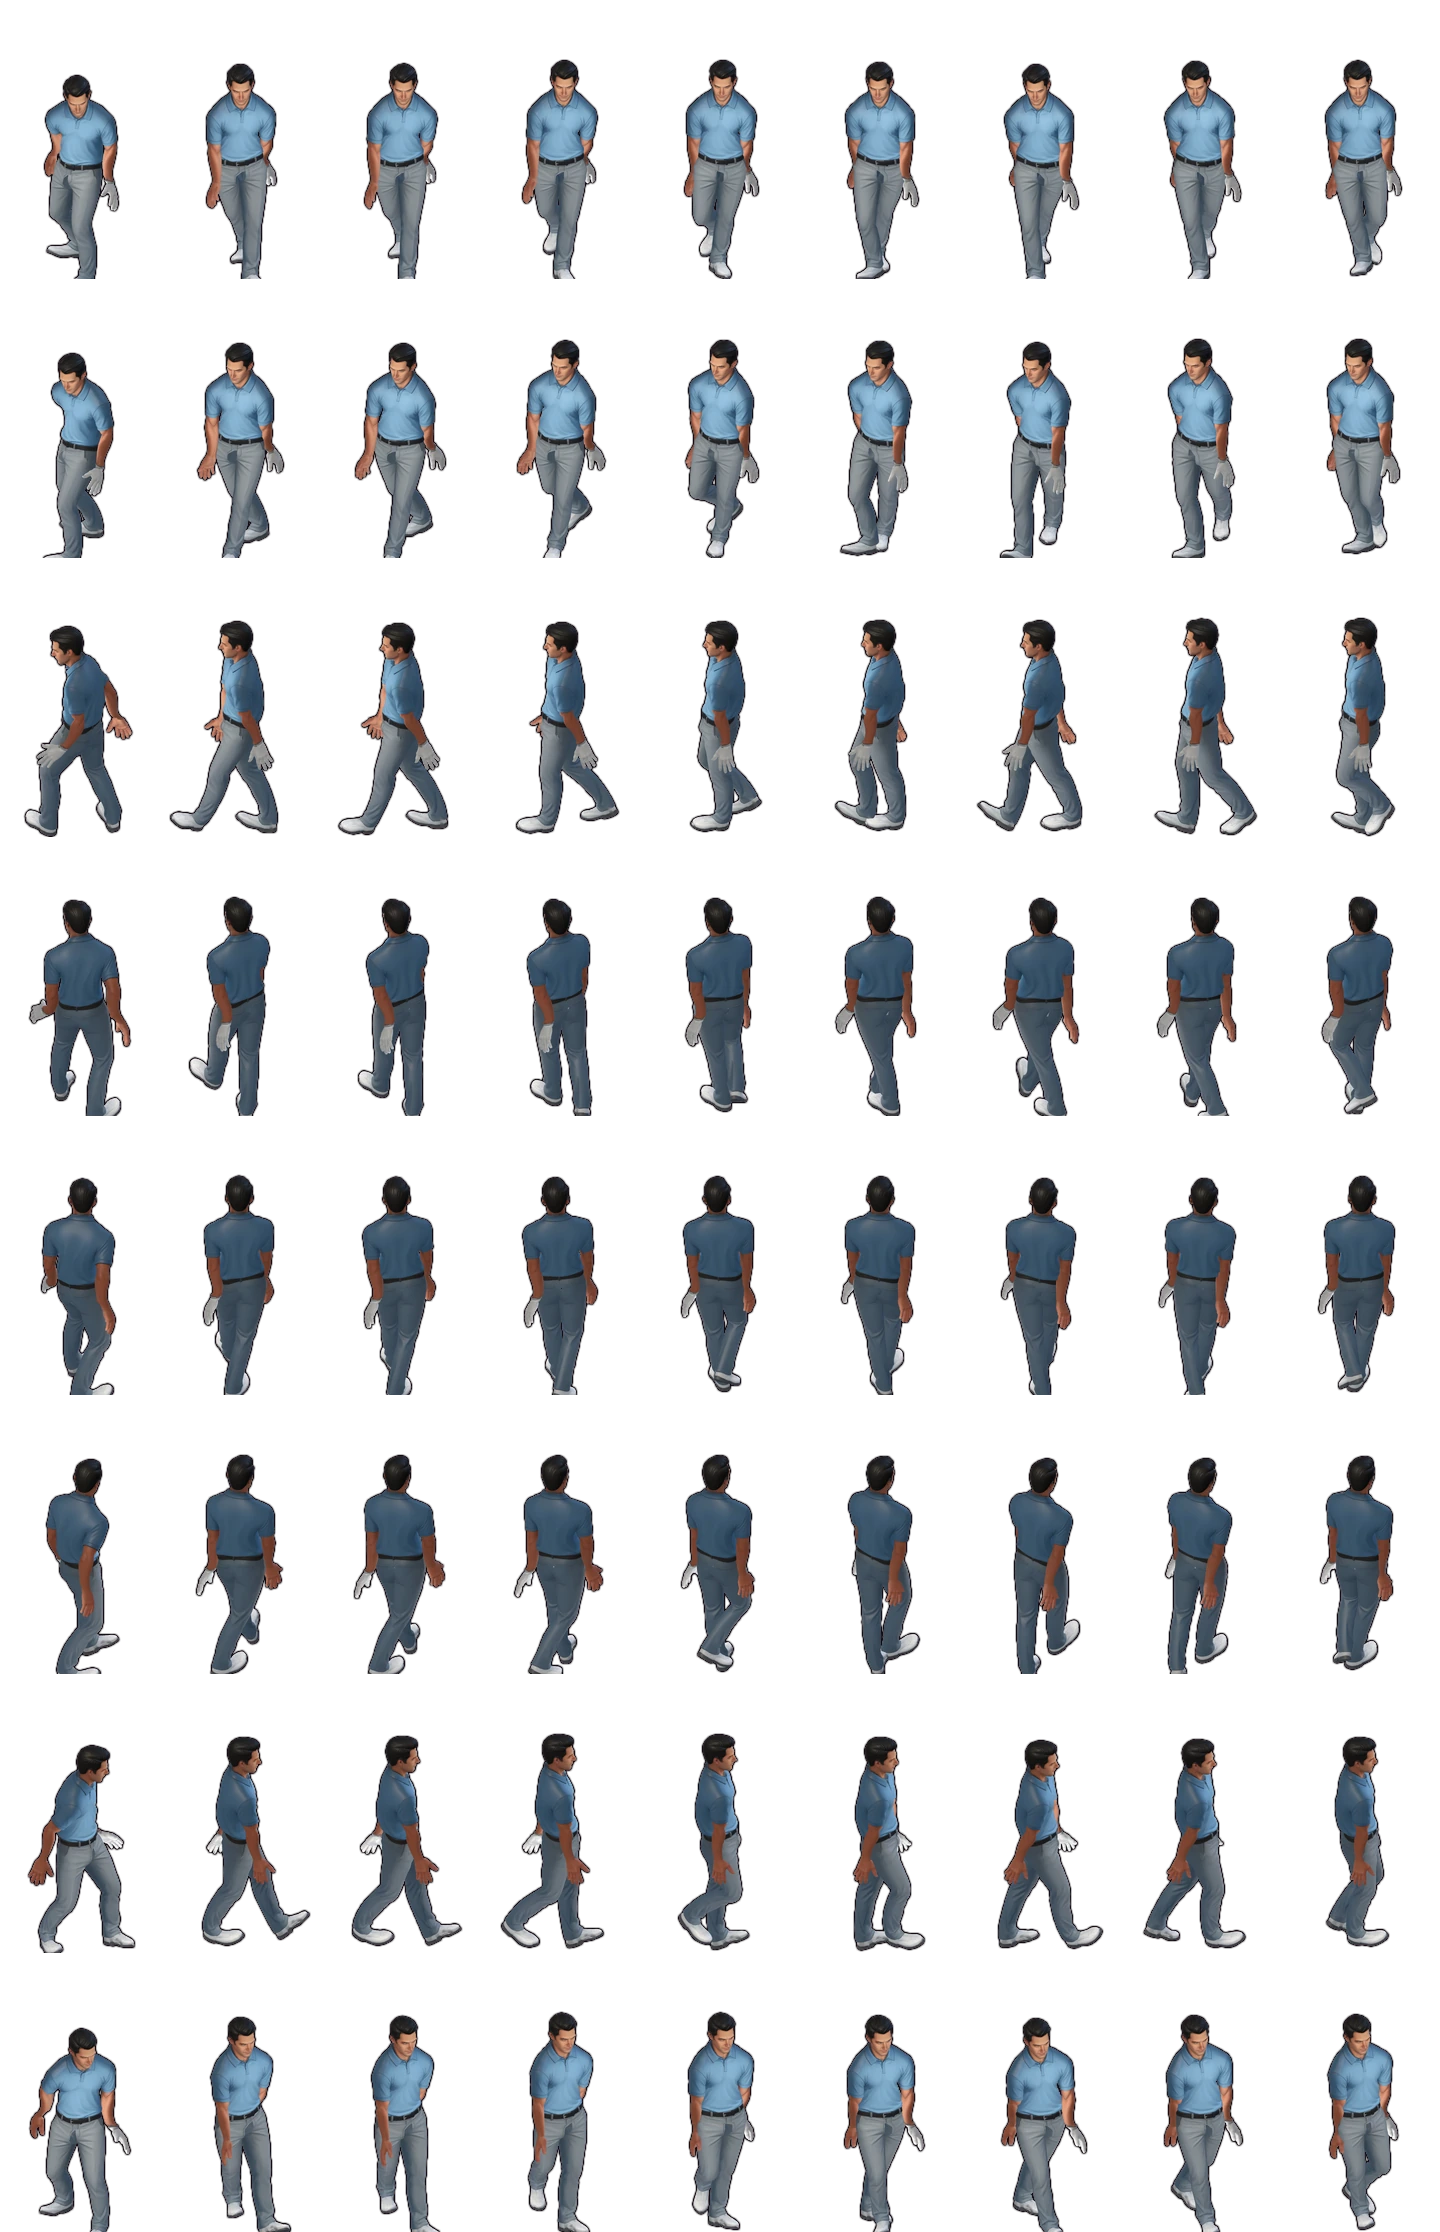
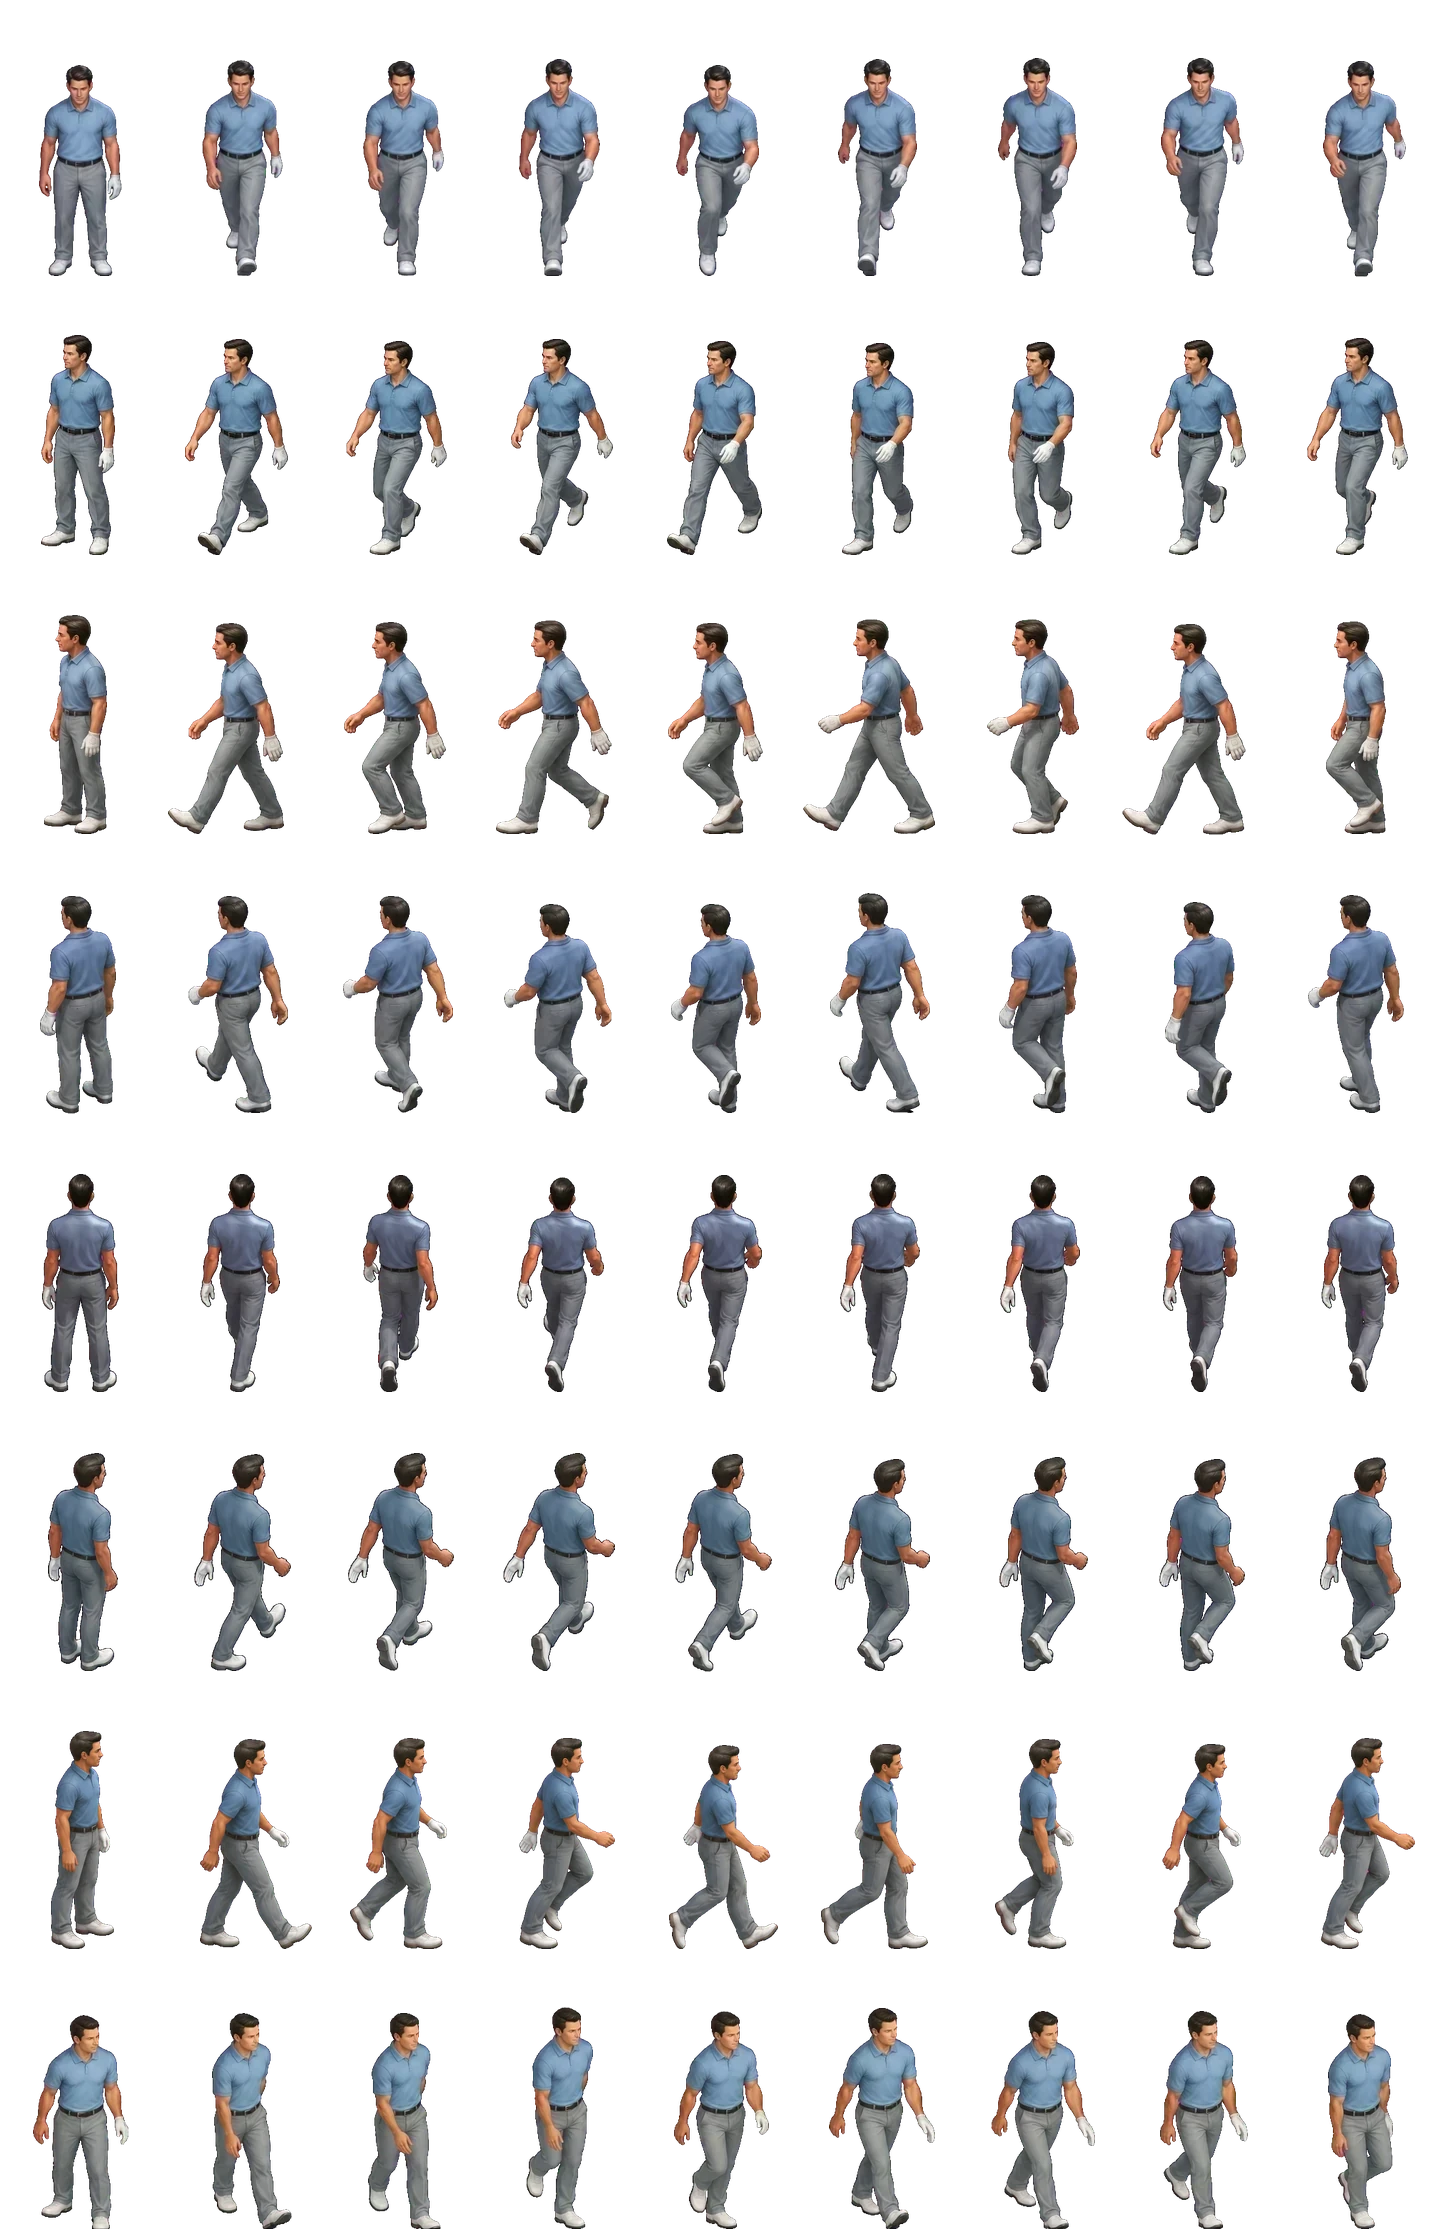
[#1235] golf_pro_m1: ChatGPT-painted standing pose and walk, all 8 headings (old sheet kept as sheet-old.*)
Imported with import_golfer.py from the owner's ChatGPT (8 pictures, one per heading); soles kept 3 px inside the cell; lossy colour,
exact alpha (513 KB). Pack: back views ask for the back in soft shade (sun at the upper right). Review: docs/art/golfers-review/.

diff --git a/scripts/assets/golfers/golfer_pack.py b/scripts/assets/golfers/golfer_pack.py
@@ -25,9 +25,9 @@ FACING = {
     'S': 'facing the viewer, walking straight toward the bottom of the picture (his front and face seen)',
     'SW': 'walking toward the lower left of the picture (his front seen at three-quarters, his face turned to the left)',
     'W': 'walking to the left (seen from his side, his face in profile looking left)',
-    'NW': 'walking toward the upper left of the picture, away from the viewer (seen at three-quarters from behind, the back of his head, a little of his left cheek)',
-    'N': 'walking straight away from the viewer toward the top of the picture (seen from behind: his back and the back of his head)',
-    'NE': 'walking toward the upper right of the picture, away from the viewer (seen at three-quarters from behind, the back of his head, a little of his right cheek)',
+    'NW': 'walking toward the upper left of the picture, away from the viewer (seen at three-quarters from behind, the back of his head, a little of his left cheek); the sun is ahead of him at the upper right, so his back is mostly in soft shade with only his right shoulder and right side catching the light',
+    'N': 'walking straight away from the viewer toward the top of the picture (seen from behind: his back and the back of his head); the sun is ahead of him at the upper right, so his back is mostly in soft shade with only his right shoulder and right side catching the light',
+    'NE': 'walking toward the upper right of the picture, away from the viewer (seen at three-quarters from behind, the back of his head, a little of his right cheek); the sun is ahead of him at the upper right, so his back is mostly in soft shade with only his right shoulder and right side catching the light',
     'E': 'walking to the right (seen from his side, his face in profile looking right)',
     'SE': 'walking toward the lower right of the picture (his front seen at three-quarters, his face turned to the right)',
 }

diff --git a/scripts/assets/golfers/import_golfer.py b/scripts/assets/golfers/import_golfer.py
@@ -123,7 +123,7 @@ def import_one(path, gid, heading, tol=60, soft=40, scale=None, dry=False, previ
     fw, fh, ax, ay = j['frameWidth'], j['frameHeight'], j['anchor']['x'], j['anchor']['y']
     row = j['directions'].index(heading)
     olds = [cell(sheet, j, row, c) for c in range(len(j['frames']))]
-    old_h = np.median([measure(o)[0] for o in olds]); ground = int(np.median([measure(o)[1] for o in olds]))
+    old_h = np.median([measure(o)[0] for o in olds]); ground = min(int(np.median([measure(o)[1] for o in olds])), fh - 4)   # (the old renders' soles were cut at the cell's last row: keep the new ones 3 px inside)
     figs, bg = figures(path, tol, soft)
     new_h = np.median([measure(f)[0] for f in figs])
     k = scale or old_h / new_h
@@ -148,7 +148,7 @@ def import_one(path, gid, heading, tol=60, soft=40, scale=None, dry=False, previ
         shutil.copyfile(base / 'sheet.webp', base / 'sheet-old.webp'); shutil.copyfile(base / 'sheet.json', base / 'sheet-old.json')
     for c in range(9):
         sheet.paste(Image.new('RGBA', (fw, fh), (0, 0, 0, 0)), (c * fw, row * fh)); sheet.paste(cells[c], (c * fw, row * fh))
-    sheet.save(base / 'sheet.webp', lossless=True, quality=100, method=6)
+    sheet.save(base / 'sheet.webp', quality=90, alpha_quality=100, method=6)   # (lossy colour, exact alpha: about the old sheet's size)
     ch = j.setdefault('chatgpt', {})
     ch[heading] = {'picture': path.name, 'date': datetime.date.today().isoformat(), 'scale': round(k, 4)}
     j['clips']['walk'] = j['clips'].get('walk', '') if len(ch) < 8 else 'ChatGPT painted walk (8 frames, issue #1235)'
